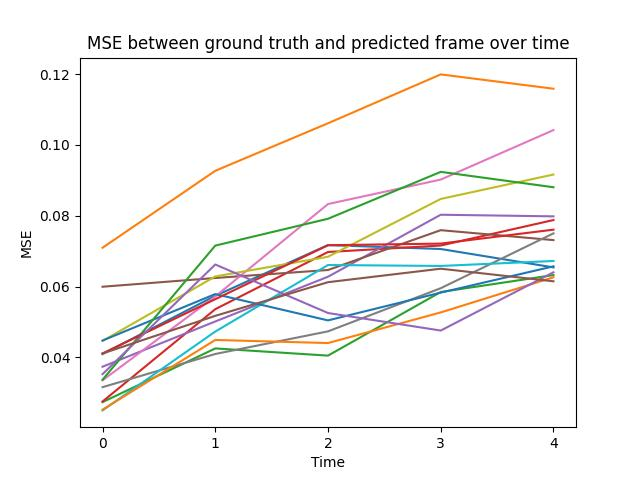
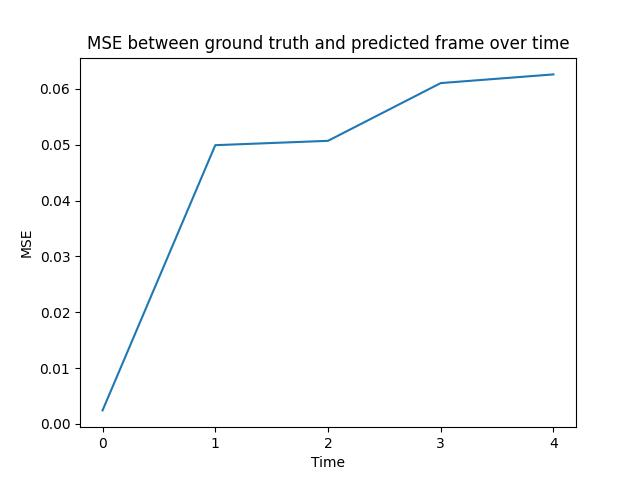
updated loss over time curve to take average

diff --git a/vrnn/inference_vrnn.py b/vrnn/inference_vrnn.py
@@ -16,7 +16,7 @@ from vrnn.model_vrnn import VRNN
 from data.MovingMNIST import MovingMNIST
 
 model_version = "v1"
-state_dict_path = f'saves/{model_version}/important/vrnn_state_dict_v1_beta=0.0_step=1000000_299.pth'
+state_dict_path = f'saves/vrnn/{model_version}/important/vrnn_state_dict_v1_beta=0.4_step=1000000_149.pth'
 
 det_or_stoch = "stochastic"
 stage = "stage_c"
@@ -34,13 +34,13 @@ if model_version == "v0":
     h_dim = 1024
     z_dim = 32
     n_layers =  3
-    batch_size = 16
 elif model_version == "v1":
     x_dim = 64
     h_dim = 1024
     z_dim = 32
     n_layers =  1
-    batch_size = 16
+    
+batch_size = 32
 
 device = torch.device('cuda') if torch.cuda.is_available() else torch.device('cpu')
 
@@ -246,10 +246,14 @@ def plot_losses_over_time(train = True):
     for i in range(batch_size):
         combined_mse_over_time.append(calc_losses_over_time(train = train, batch_item = i)) 
 
-    # print(combined_mse_over_time)
+    combined_mse_over_time = np.array(combined_mse_over_time)
 
-    for j in combined_mse_over_time: 
-        plt.plot(j)
+    avg_mse_over_time = np.mean(combined_mse_over_time, axis = 0)
+
+    plt.plot(avg_mse_over_time)
+
+    # for j in combined_mse_over_time: 
+    #     plt.plot(j)
 
     plt.title("MSE between ground truth and predicted frame over time")
     plt.xticks(np.arange(0, 5, 1.0))
